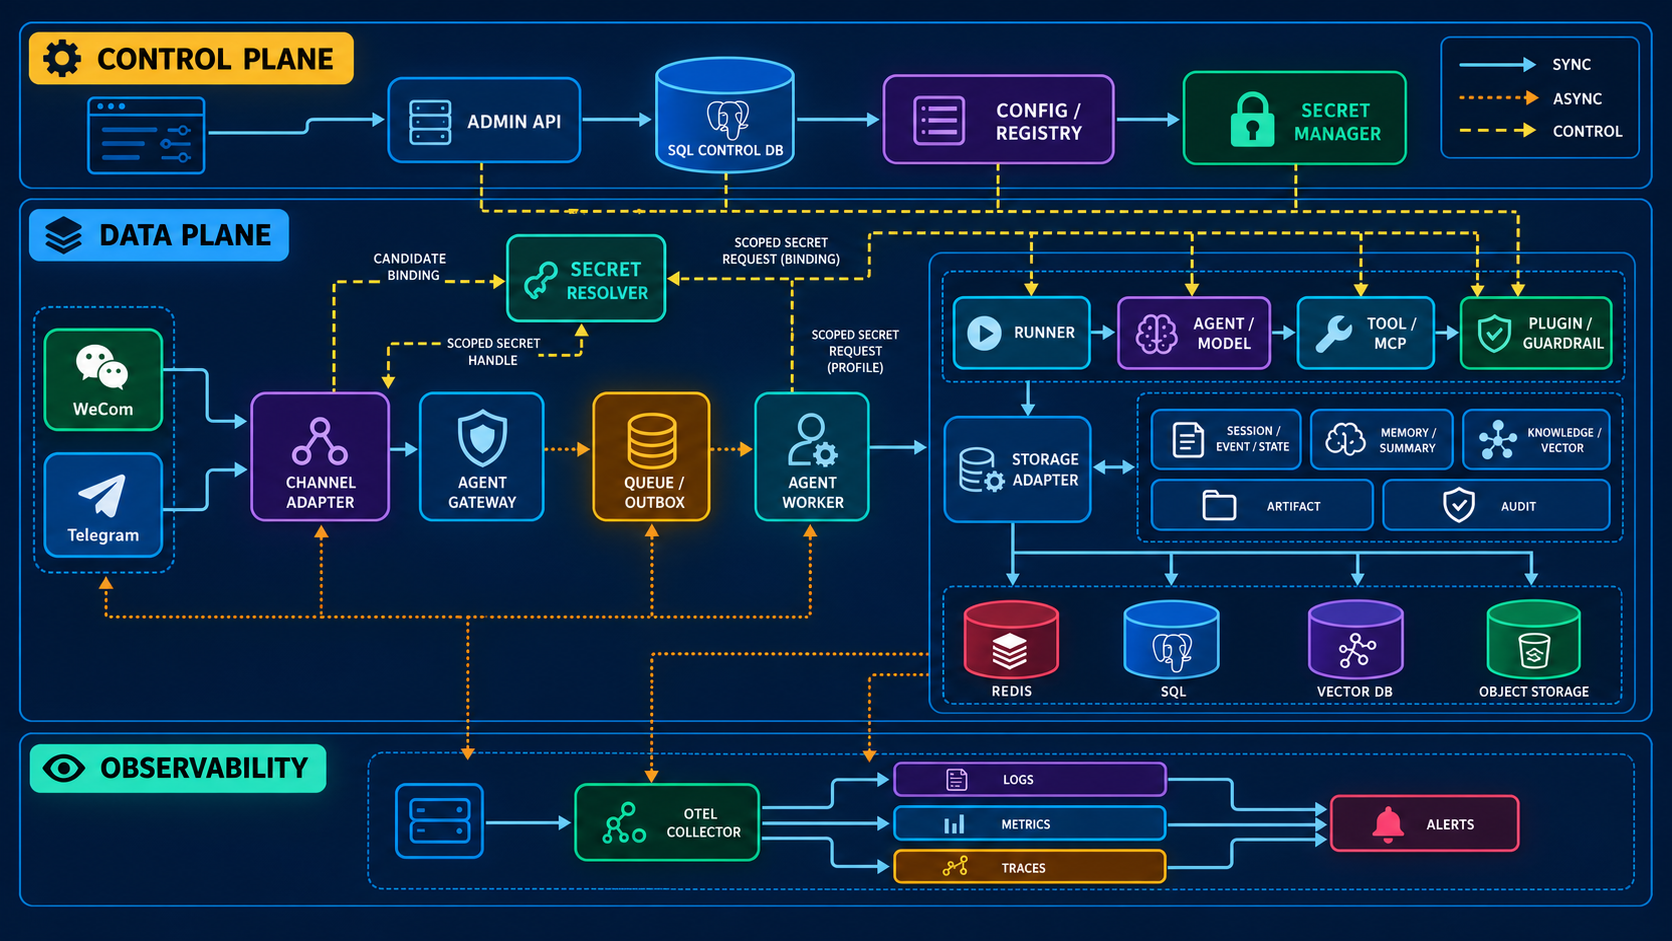
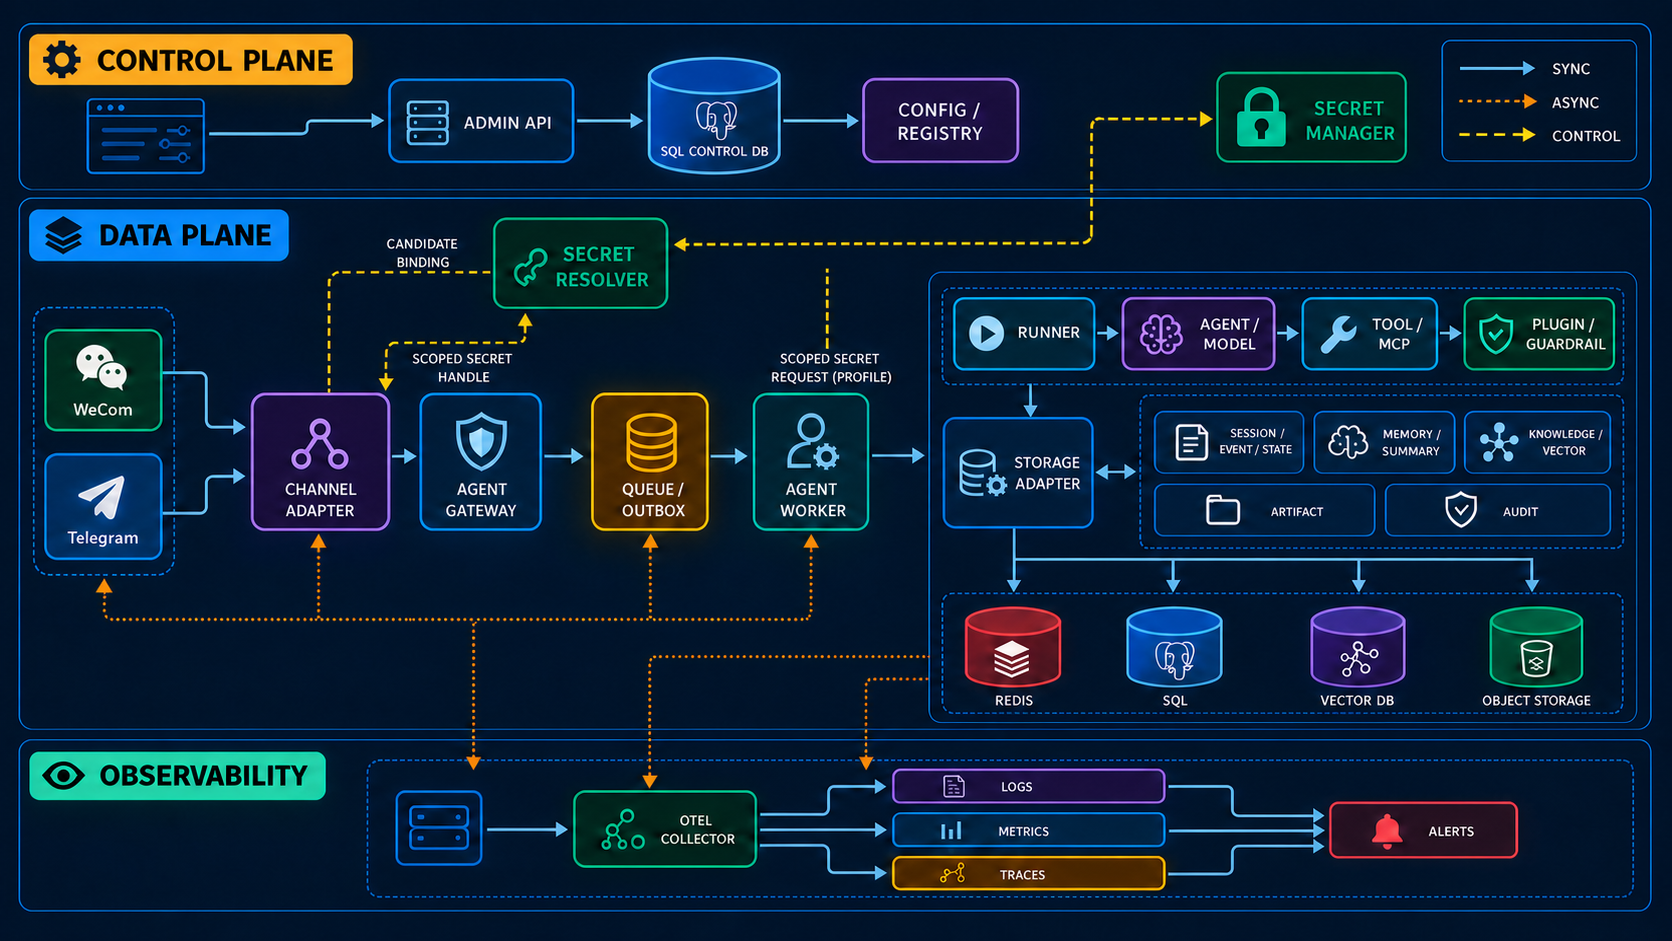
docs: close final review gaps

diff --git a/docs/docs/architecture.md b/docs/docs/architecture.md
@@ -327,8 +327,9 @@ sequenceDiagram
         R->>ST: Memory durable write；异步投递向量索引
         R->>ST: Audit(tool/model/decision/cost/trace)
         R-->>W: Runner Event（文本/工具/错误/结束）
-        W->>ID: CAS running → completed/reply_pending，保存 reply cache ref
-        W->>O: 为每个 segment 写 pending（稳定 segment_id/顺序/幂等键）
+        W->>ID: CAS running → completed，保存 reply cache ref
+        W->>O: 幂等写入每个 segment pending（稳定 segment_id/顺序/幂等键）
+        W->>ID: CAS completed → reply_pending（仅在 segment_count 完整可见后）
         W->>ST: summary 按 event_seq 异步 CAS（只读取已 durable 的 Memory）
         loop 按 segment_index 处理分段
           O->>O: CAS claim pending/retryable 或过期 sending（owner/lease/fence）
@@ -365,14 +366,18 @@ sequenceDiagram
       alt received 或 running
         G-->>CA: 2xx；CAS 失败者不加载 plan、不启动第二个 Runner
       else completed、reply_pending 或 replied
-        G->>O: 按 reply_id 读取缓存或 claim 可发送分段
+        G->>O: 校验 reply_id/segment_count；缺段时从缓存修复，再 claim 可发送分段
         G-->>CA: 2xx；只重放回复，不重新执行 Runner
       end
     end
   end
 ```
 
-时序中 `message_event` 的唯一性和 Session 顺序由共享 Storage Adapter 保证；队列至少一次
+`completed` 表示执行结果和 reply cache 已持久化，但还不是可发送状态。Worker 必须先以幂等键
+物化完整 `reply_outbox` 分段，再把 `completed` CAS 为 `reply_pending`；同一 provider 使用事务，
+跨 provider 则使用 durable repair marker。若 Worker 在两步之间崩溃，行保持 `completed`，修复器
+根据 reply cache ref 补齐分段并再次 CAS；任何 `reply_pending` 行都必须能找到完整 segment_count，
+否则进入 repair 而不能直接标记 `replied`。时序中 `message_event` 的唯一性和 Session 顺序由共享 Storage Adapter 保证；队列至少一次
 投递不是重复执行的借口。`completed` 但回复失败时重放缓存回复，不重新调用模型或具有副作用
 的 Tool；只有明确标记为安全、幂等的步骤才允许重试。回复 Outbox 还必须以
 `reply_id + segment_index` 建立稳定的分段幂等记录，保存顺序、状态、attempts 和供应商回执。
@@ -423,7 +428,7 @@ received ──claim/CAS──> running ──execution commit──> completed
     │                                                         │
     └─ invalid/duplicate                              retryable? ──> running
 
-completed ──enqueue reply──> reply_pending ──send success──> replied
+completed ──materialize outbox/CAS──> reply_pending ──send success──> replied
                                    │
                                    └─ retry budget exhausted ──> failed + DLQ
 ```

diff --git a/docs/docs/data-model.md b/docs/docs/data-model.md
@@ -482,7 +482,7 @@ Channel Binding 仍必须在持久化列中保留 binding、channel 和外部身
 `message_event.status` 与入站幂等记录共同表达以下状态机：
 
 ```text
-received → running → completed → reply_pending → replied
+received → running → completed ──materialize outbox/CAS──> reply_pending → replied
      │          │          │              │
      └──────────┴──────────┴──────────────┴→ failed / DLQ
 ```
@@ -499,6 +499,12 @@ received → running → completed → reply_pending → replied
 Memory，重排 Summary 任务。SQL Adapter 可以把 event/state/outbox 放在同一事务；Redis
 Adapter 必须使用经过验证的 Lua/Stream/事务边界；无法原子提交时必须声明最终一致并提供
 补偿和 repair cursor。向量索引延迟不能影响 Tenant 权限、Session 顺序或 Audit。
+
+`completed` 只表示执行结果和 reply cache 已持久化；只有完整的 `reply_outbox` 分段已经幂等
+写入并通过 CAS/事务后，消息才可进入 `reply_pending`。同一 provider 把分段写入和状态转换
+放在一个事务；跨 provider 使用 durable repair marker。若 Worker 在物化分段前崩溃，修复器
+从 reply cache ref 补齐缺失分段；若 `reply_pending` 缺段，也只能进入 repair，不能直接进入
+`replied`。因此每个 `reply_pending` 都有可恢复的 segment_count，且不会重新运行 Runner。
 
 ## 多后端职责矩阵
 
